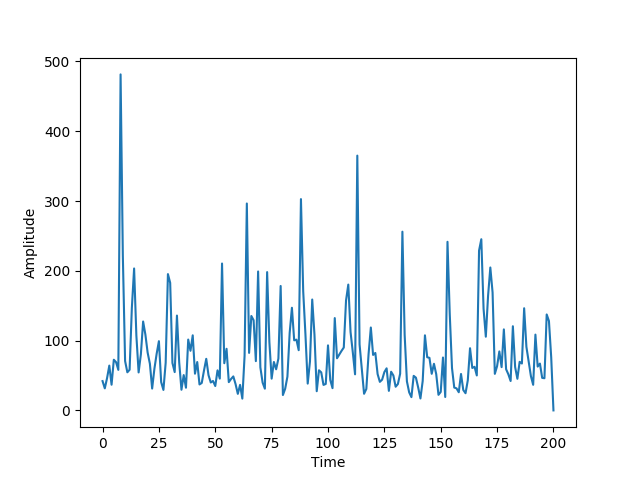
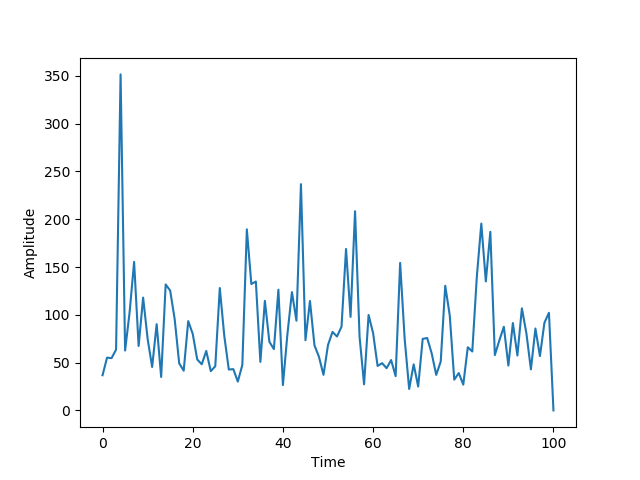
Unit testing on analysis (event id)

diff --git a/server/analysis.py b/server/analysis.py
@@ -81,9 +81,14 @@ def chonk_avg(arr, chunk_size):
 def find_module_events(s1, s2, s3):
     #Don't let a sound event endure for too long - set a max
     module_thresh = (find_event_thresh(s1) + find_event_thresh(s2) +find_event_thresh(s3))/3
+
     e1 = find_mic_events(s1, module_thresh)
+    print("             e1 is:", e1)
     e2 = find_mic_events(s2, module_thresh)
+    print("             e2 is:", e2)
     e3 = find_mic_events(s3, module_thresh)
+
+    print("Merge of e1 and e2:", e_merge_two(e1, e2))
 
     #Final module list
     e_module = e_merge_two(e_merge_two(e1, e2), e3)
@@ -269,7 +274,7 @@ def determineVolumes(start_index, end_index, c1, c2, c3):
 
 def convertToVolumeList(event_list, c1, c2, c3):
 
-    volumeList = [];
+    volumeList = []
 
     start_id = 0
     end_id = 0
@@ -304,19 +309,24 @@ def main():
     read_files()
     process_files()
 
-    smooth1 = chonk_avg(channel1, 5)
-    smooth2 = chonk_avg(channel2, 5)
-    smooth3 = chonk_avg(channel3, 5)
+    smooth1 = chonk_avg(channel1, 10)
+    smooth2 = chonk_avg(channel2, 10)
+    smooth3 = chonk_avg(channel3, 10)
 
-    drawPlot(smooth1, 0)
-    drawPlot(smooth2, 1)
-    drawPlot(smooth3, 2)
+    drawPlot(smooth1, 1)
+    plt.axhline(y=find_event_thresh(smooth1), color='r', linestyle='-')
+    plt.xticks(range(0, len(smooth1), 1))
+
+    drawPlot(smooth2, 2)
+    drawPlot(smooth3, 3)
 
     # print(find_module_events(smooth1, smooth2, smooth3))
     # volumes_list = convertToVolumeList(find_module_events(smooth1, smooth2, smooth3), smooth1, smooth2, smooth3)
     # print(volumes_list)
 
     plt.show()
+
+    find_module_events(smooth1 ,smooth2, smooth3)
 
 
 if __name__ == "__main__":
